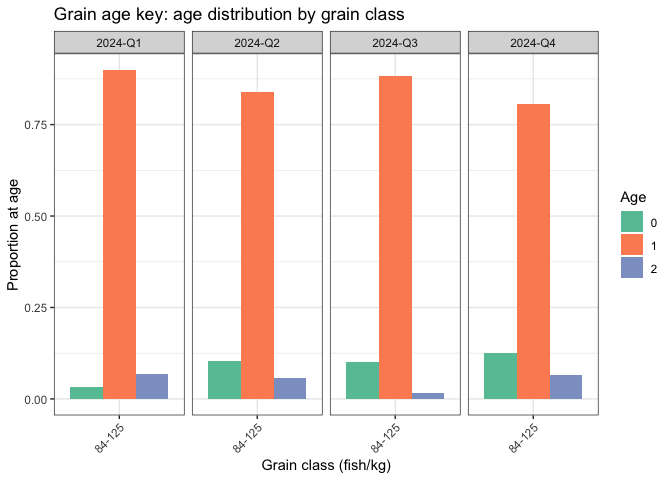
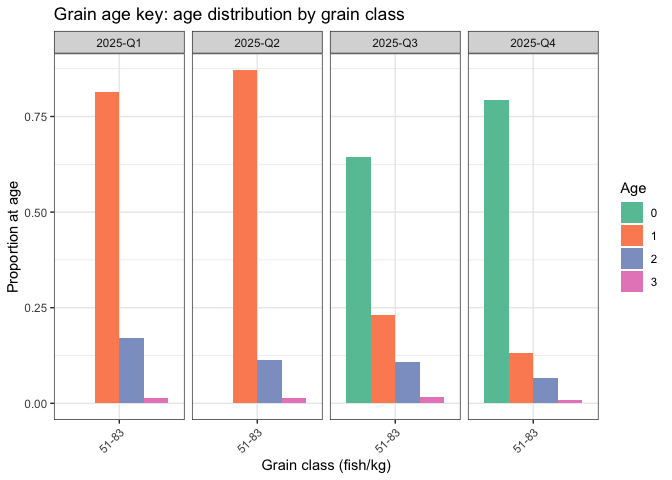
update readme

diff --git a/README.md b/README.md
@@ -33,13 +33,13 @@ result <- build_grain_key(Database)
 
 # View age composition
 head(result$grain_key)
-#> # A tibble: 4 × 6
-#>    year quarter Grain_class `Age-0` `Age-1` `Age-2`
-#>   <dbl>   <int> <chr>         <dbl>   <dbl>   <dbl>
-#> 1  2024       1 84-125       0.0335   0.899  0.0671
-#> 2  2024       2 84-125       0.103    0.839  0.0576
-#> 3  2024       3 84-125       0.101    0.884  0.0155
-#> 4  2024       4 84-125       0.127    0.807  0.0665
+#> # A tibble: 4 × 7
+#>    year quarter Grain_class `Age-0` `Age-1` `Age-2` `Age-3`
+#>   <dbl>   <int> <chr>         <dbl>   <dbl>   <dbl>   <dbl>
+#> 1  2025       1 51-83         0       0.814  0.171  0.0143 
+#> 2  2025       2 51-83         0       0.871  0.114  0.0152 
+#> 3  2025       3 51-83         0.645   0.231  0.107  0.0165 
+#> 4  2025       4 51-83         0.794   0.131  0.0654 0.00935
 
 # Plot proportion-at-age
 plot_grain_key(result, plot_type = "percentage")
@@ -61,8 +61,6 @@ catch_by_age <- calc_catch_by_age(result$grain_key, res_default)
 
 # Plot
 plot_catch_by_age(catch_by_age)
-#> Warning: Removed 12 rows containing missing values or values outside the scale range
-#> (`geom_col()`).
 ```
 
 <img src="man/figures/README-unnamed-chunk-3-1.png" width="100%" />
@@ -84,5 +82,6 @@ plot_catch_by_age(catch_by_age)
 
 ## License and Authorship
 
-MIT License © 2025 María José Zúñiga Developed at IEO-CSIC as part of
-the BioEcon4Fish project.
+MIT License © 2025 María José Zúñiga
+
+Developed at IEO-CSIC as part of the BioEcon4Fish project.
